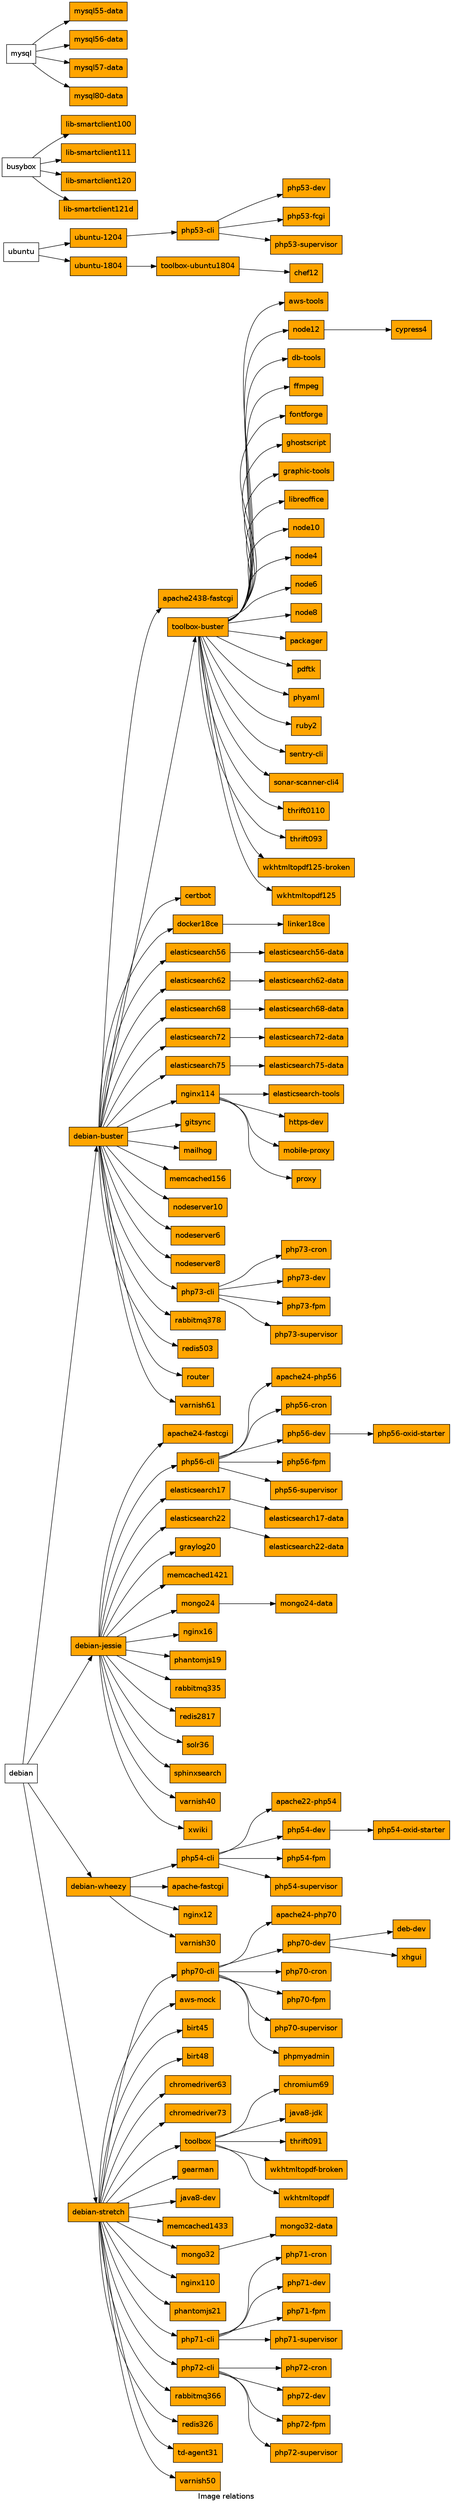
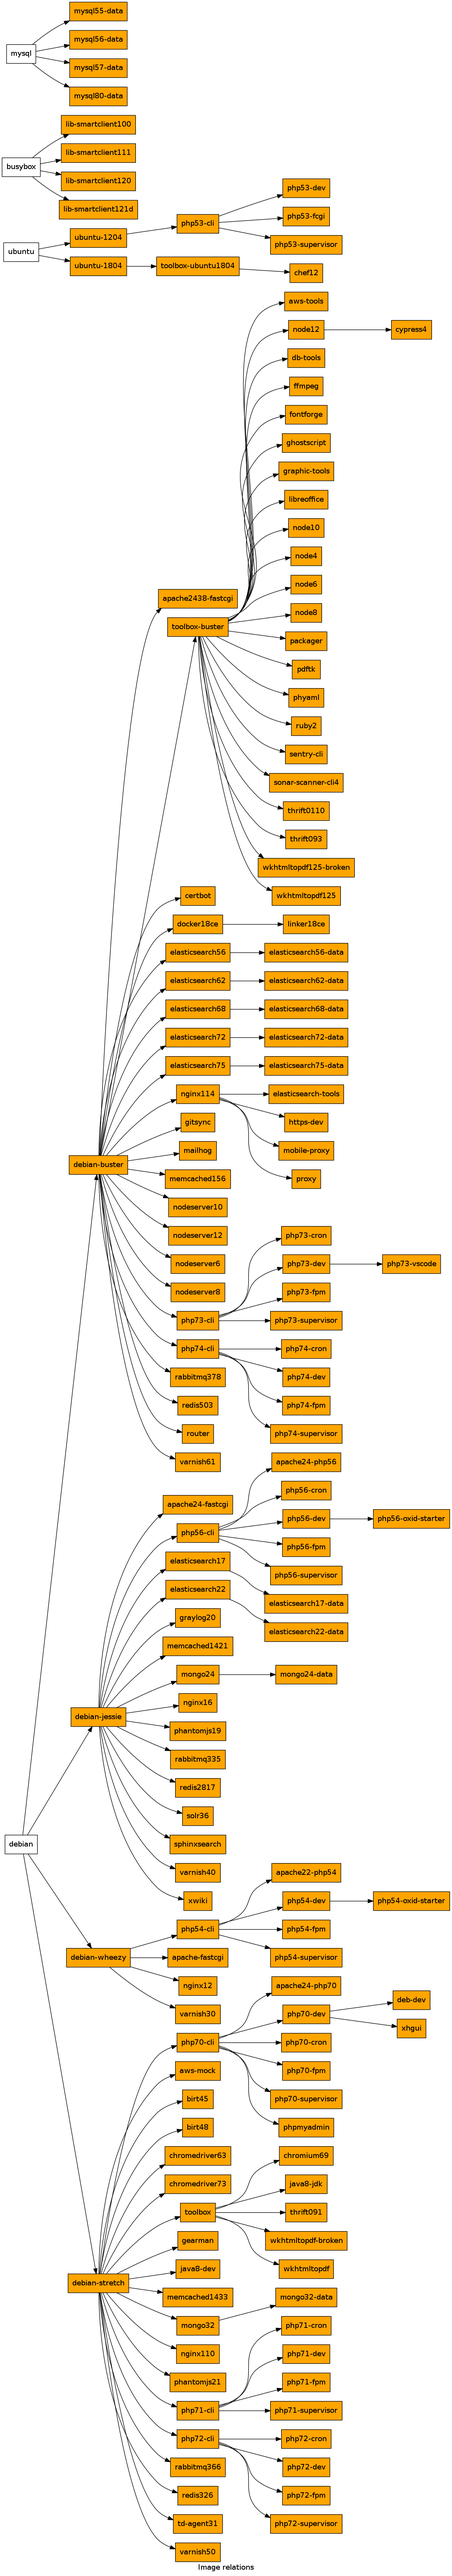
adding vscode image for php73

diff --git a/php73-vscode/README.md b/php73-vscode/README.md
@@ -1,0 +1,67 @@
+## php dev env with vscode
+
+### Info
+
+This image adds vscode to your usual dev container. vscode window should
+appear on project startup right after project-started notice. This should
+not affect other aspects of dev container behavior. In case you dont want
+to use vscode you can just close the window with no effect on the project,
+but you will need to restart project to get it back. For this reason,
+projects can be upgraded to use this image by default.
+
+
+### How to upgrade
+
+To upgrade from standard php*-dev image you need to change three things
+
+change image you are using in dev container
+```
+  dev:
+    image: nfqlt/php73-vscode
+```
+
+add these volumes
+```
+    volumes:
+      - '/home/project/.Xauthority:/home/project/.Xauthority'
+      - '/tmp/.X11-unix:/tmp/.X11-unix'
+```
+
+
+and pass your DISPLAY environment variable like this
+```
+    environment:
+      DISPLAY: $DISPLAY
+```
+
+
+
+### Sample configuration
+
+```
+version: '2.4'
+services:
+
+  dev:
+    image: nfqlt/php73-vscode
+    volumes:
+      - './src:/home/project/src'
+      - '/home/project/.ssh:/home/project/.ssh'
+      - '/etc/ssh:/etc/ssh'
+      - '/etc/gitconfig:/etc/gitconfig'
+      - '/etc/environment:/etc/environment-vm:ro'
+      - '/vagrant/bash_custom:/home/project/.bash_custom'
+      - '/home/project/.Xauthority:/home/project/.Xauthority'
+      - '/tmp/.X11-unix:/tmp/.X11-unix'
+    environment:
+      DISPLAY: $DISPLAY
+      NFQ_ENABLE_PHP_MODULES: 'xml dom tokenizer ctype curl json iconv pdo mbstring xmlreader xmlwriter xdebug'
+      NFQ_PROJECT_ROOT: /home/project/src
+      NFQ_PROJECT_GIT_REPO: 'repo'
+      NFQ_PROJECT_GIT_BRANCH: develop
+      NFQ_INIT_SCRIPT: tools/docker/develop_init.sh
+      NFQ_REMOTE_TOOL_PACKAGER: >
+        /usr/local/bin/package-deb
+
+```
+
